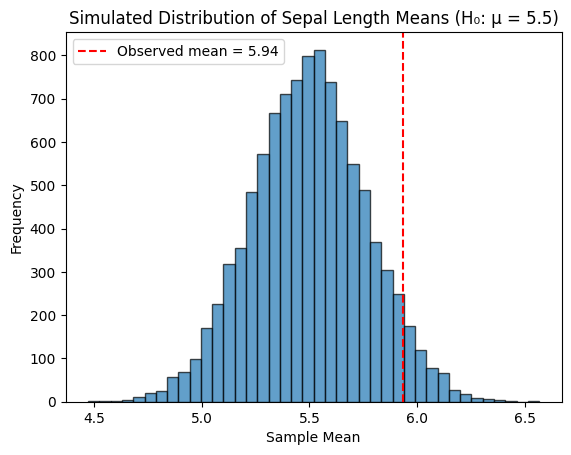
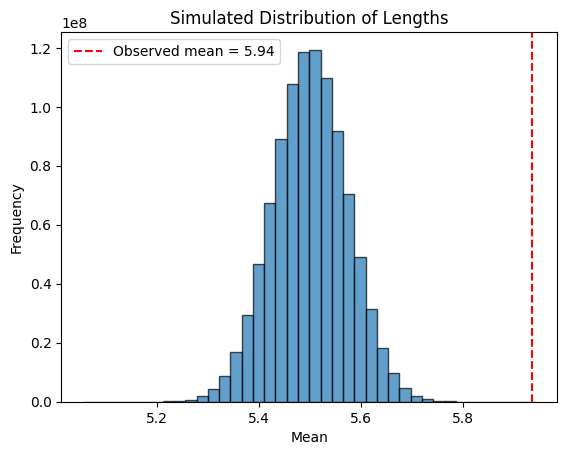
fix prob 1

Changed region(s): [[0.03, 0.0, 0.9894, 0.9846], [0.8995, 0.8923, 0.9295, 0.9538]]

diff --git a/stats/LR_case/analysis.md b/stats/LR_case/analysis.md
@@ -27,9 +27,9 @@ print(observed_mean)
 
 ```python
 observed_mean = df['sepal length (cm)'].mean()
-num_simulations = 10000
+num_simulations = 1_000_000_000
 n = len(df)
-sample_std = np.std(df.values, ddof=1)
+sample_std = df['sepal length (cm)'].std(ddof=1)
 print(sample_std)
 
 CLAIMED_MEAN = 5.5
@@ -38,25 +38,28 @@ simulated_means = np.random.normal(loc=CLAIMED_MEAN, scale=sample_std/np.sqrt(n)
 
 ```
 
-    1.8830328437823523
+    0.5161711470638635
 
 
 
 ```python
-extreme_count = np.sum(np.abs(simulated_means - 5.5) >= np.abs(observed_mean - 5.5))
+observed_diff = np.abs(observed_mean - CLAIMED_MEAN)
+
+extreme_count = np.sum(np.abs(simulated_means - CLAIMED_MEAN) >= observed_diff)
+
 p_value = extreme_count / num_simulations
 print(f"p-value: {p_value}")
 ```
 
-    p-value: 0.1049
+    p-value: 2e-09
 
 
 
 ```python
 plt.hist(simulated_means, bins=40, alpha=0.7, edgecolor='black')
 plt.axvline(observed_mean, color='red', linestyle='--', label=f'Observed mean = {observed_mean:.2f}')
-plt.title("Simulated Distribution of Sepal Length Means (H₀: μ = 5.5)")
-plt.xlabel("Sample Mean")
+plt.title("Simulated Distribution of Lengths")
+plt.xlabel("Mean")
 plt.ylabel("Frequency")
 plt.legend()
 plt.show()
@@ -67,6 +70,12 @@ plt.show()
 ![png](analysis_files/analysis_5_0.png)
     
 
+
+# Intepretation and Results
+
+The actual observed mean of the data was 5.94 with a standard deviation of 1.88.
+
+In order to test the assumption that the true mean was 5.5, I ran 10,000,000 simulations. This resulted in a p-value of about 2e-9 Since this is dramatically less than 0.05, we **reject the null hypothesis** that the true mean is 5.5.
 
 # Problem 2
 
